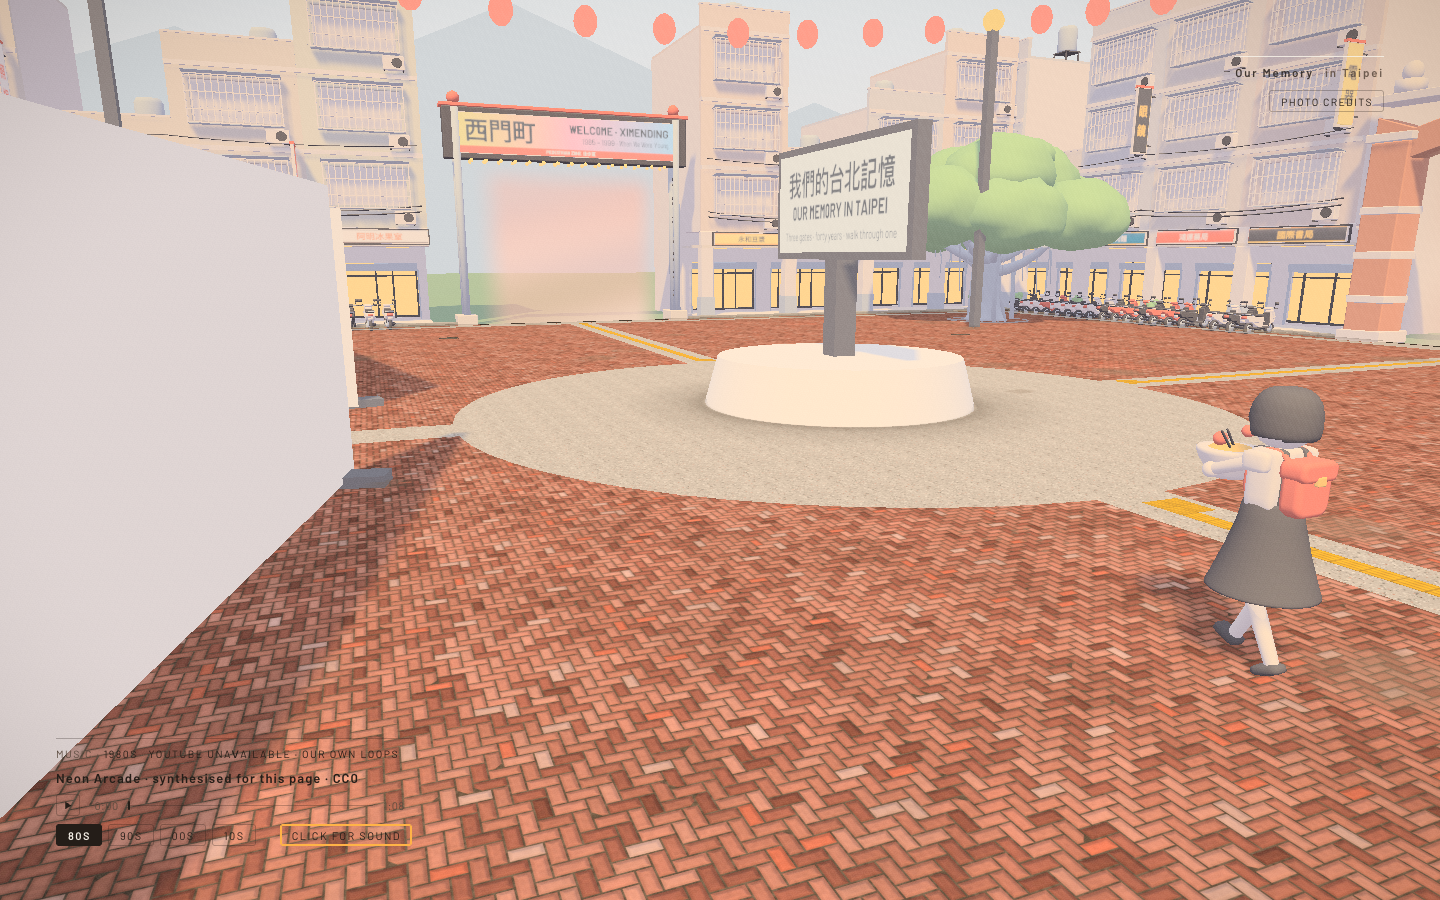
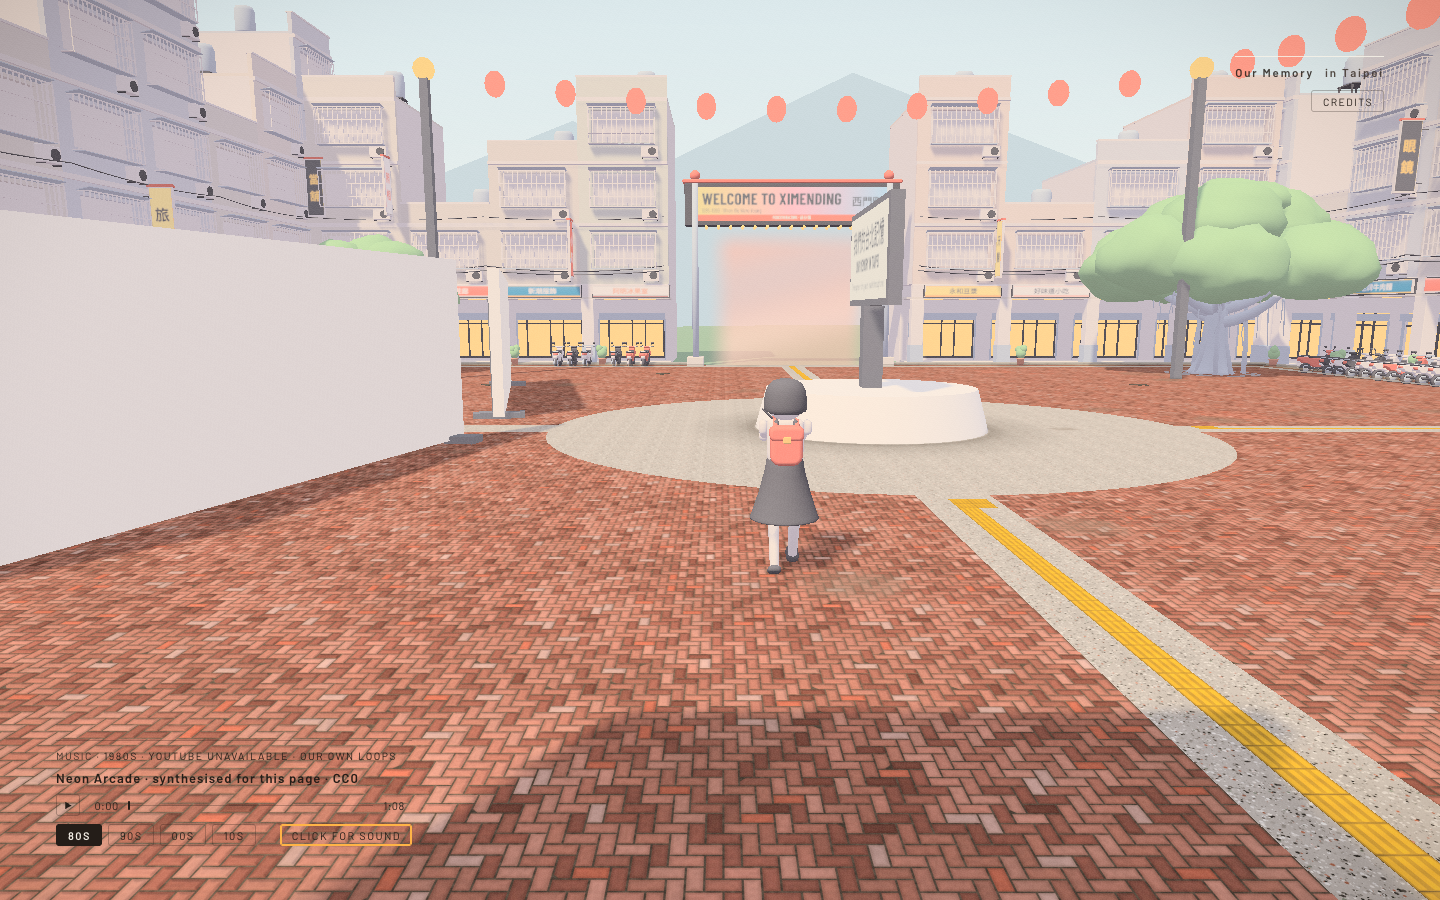
feat(square): English-first gate boards, phone lanterns clear the HUD, square light merged by material

diff --git a/square.js b/square.js
@@ -196,6 +196,22 @@
     return hidden;
   }
 
+  // On a phone held upright the follow camera's lifted FOV puts the lantern strings (LAMP_H 12.5, walk.js) across
+  // the top fifth of the frame, right behind the HUD's "THE SQUARE" block (lead, 2026-11-01; first try hid only
+  // the west and east strings and after-phone.png still showed the north string behind the HUD lines). In
+  // portrait every string steps aside; the four posts and their bulbs stay. Landscape keeps them all.
+  function portraitLanterns(ctx) {
+    const { square } = ctx, verm = S.C('verm').getHex(), strings = [];
+    square.children.forEach(o => {
+      if (o.isMesh && o.material && o.material.isMeshBasicMaterial && o.material.color.getHex() === verm && o.geometry.type === 'SphereGeometry') strings.push(o);
+    });
+    const mq = window.matchMedia ? window.matchMedia('(orientation: portrait)') : null;
+    const apply = () => { const p = mq ? mq.matches : innerHeight > innerWidth; strings.forEach(o => { o.visible = !p; }); };
+    apply();
+    if (mq && mq.addEventListener) mq.addEventListener('change', apply); else window.addEventListener('resize', apply);
+    SQUARE.stats.lanterns = strings.length;
+  }
+
   // ── build ────────────────────────────────────────────────────────────────────────────────────
   function build(ctx) {
     const { square, SQ, GATES, gateArch } = ctx;
@@ -209,11 +225,12 @@
       catch (e) { console.error('square-paving failed; keeping the old floor', e); }
     }
     // light
-    if (window.SQUARE_LIGHT && window.RIG) {
+    if (window.SQUARE_LIGHT && window.RIG && new URLSearchParams(location.search).get('sqlight') !== '0') {   // ?sqlight=0 turns it off for A/B
       try { window.SQUARE_LIGHT.build(S, SQ, window.RIG); SQUARE.light = true; }
       catch (e) { console.error('square-light failed', e); }
     }
     SQUARE.hidden = retire(ctx, paved);
+    portraitLanterns(ctx);
 
     let pending = 2;
     const done = () => { if (--pending === 0) { SQUARE.ready = true; SQUARE.stats.buildMs = +(performance.now() - t0).toFixed(1); } };
@@ -257,6 +274,7 @@
       const sMat = new THREE.MeshLambertMaterial({ map: tex, emissive: 0xffffff, emissiveMap: tex, emissiveIntensity: 0.18, side: THREE.DoubleSide });
       const bm = new THREE.Mesh(quads(boards.concat(vquads)), S.withFog(sMat));
       bm.receiveShadow = true; bm.userData.sq = true; root.add(bm);
+      bm.raycast = () => {};                      // the boards lie on the bays, which already stop the rays
       SQUARE.stats.bays = bays.length; SQUARE.stats.storeys = storeys.length; SQUARE.stats.vsigns = vs.length;
       done();
     });
@@ -298,10 +316,11 @@
     M.load('sq-scooter', gltf => {
       M.lambertize(gltf.scene);
       const rows = [
-        { a0: SQ.gate + 3.2, a1: SQ.h - 3, at: a => [SQ.x + a, SQ.z - SQ.h + 1.15], r: Math.PI },
-        { a0: -(SQ.h - 3), a1: -(SQ.gate + 3.2), at: a => [SQ.x + a, SQ.z - SQ.h + 1.15], r: Math.PI },
-        { a0: SQ.gate + 3.2, a1: SQ.h - 4, at: a => [SQ.x - SQ.h + 1.15, SQ.z + a], r: -Math.PI / 2 },
-        { a0: SQ.gate + 3.2, a1: SQ.h - 4, at: a => [SQ.x + SQ.h - 1.15, SQ.z + a], r: Math.PI / 2 },
+        { a0: SQ.gate + 3.2, a1: SQ.h - 6, at: a => [SQ.x + a, SQ.z - SQ.h + 1.15], r: Math.PI },
+        { a0: -(SQ.h - 6), a1: -(SQ.gate + 3.2), at: a => [SQ.x + a, SQ.z - SQ.h + 1.15], r: Math.PI },
+        // short rows on the west and east walls (each scooter is 1.4k triangles a copy: the frame budget)
+        { a0: SQ.gate + 3.2, a1: SQ.gate + 9, at: a => [SQ.x - SQ.h + 1.15, SQ.z + a], r: -Math.PI / 2 },
+        { a0: SQ.gate + 3.2, a1: SQ.gate + 9, at: a => [SQ.x + SQ.h - 1.15, SQ.z + a], r: Math.PI / 2 },
       ];
       const sets = { scooterA: [], scooterB: [], scooterC: [] };
       rows.forEach(rw => { for (let a = rw.a0; a <= rw.a1; a += 0.78) {
@@ -357,6 +376,7 @@
       const geo = new THREE.BufferGeometry();
       geo.setAttribute('position', new THREE.BufferAttribute(pos, 3)); geo.setAttribute('normal', new THREE.BufferAttribute(nor, 3)); geo.setIndex(new THREE.BufferAttribute(idx, 1));
       const m = new THREE.Mesh(geo, mat); m.castShadow = true; m.userData.sq = true; root.add(m);
+      m.raycast = () => {};                       // a wire hides nothing and stops nobody (walk.js rays every solid)
       SQUARE.stats.cableTris = nIdx / 3;
     })();
 
@@ -365,7 +385,7 @@
       let last = performance.now();
       const tick = now => {
         const dt = Math.min(0.1, (now - last) / 1000); last = now;
-        const on = !!(window.WALK && window.WALK.on && window.WALK.where === 'square');
+        const on = !!(window.WALK && window.WALK.on && window.WALK.where === 'square' && square.visible);
         try { window.SQUARE_LIGHT.update(dt, on); } catch (e) { console.error(e); SQUARE.light = false; return; }
         requestAnimationFrame(tick);
       };
@@ -373,32 +393,34 @@
     }
   }
 
-  // the gate's name board, per style
+  // the gate's name board, per style. English is the headline and the Chinese name the smaller secondary line
+  // (CJ's rule, as in walk.js gateSign: "English copy, Chinese small").
   function gateBoard(ctx, G, style) {
     const P = ctx.P || S.PALETTE, ZH = ctx.FONT_ZH, EN = ctx.FONT_EN;
     return (g, W, H) => {
-      if (style === 'ximen') {                    // the pedestrian-zone light box: bright, colourful, WELCOME
+      if (style === 'ximen') {                    // the pedestrian-zone light box: bright, colourful
         const gr = g.createLinearGradient(0, 0, W, 0);
         gr.addColorStop(0, '#ffd76a'); gr.addColorStop(0.5, '#ff8fa3'); gr.addColorStop(1, '#8ecbff');
         g.fillStyle = gr; g.fillRect(0, 0, W, H);
         g.fillStyle = P.verm; g.fillRect(0, H * 0.82, W, H * 0.18);
         g.fillStyle = P.ink; g.textBaseline = 'middle';
-        g.textAlign = 'left'; g.font = `700 ${Math.round(H * 0.62)}px ${ZH}`; g.fillText(G.zh, W * 0.04, H * 0.42);
-        g.textAlign = 'right'; g.font = `700 ${Math.round(H * 0.3)}px ${EN}`; g.fillText('WELCOME · ' + G.en, W * 0.96, H * 0.3);
-        g.font = `400 ${Math.round(H * 0.2)}px ${EN}`; g.fillText(G.years + ' · ' + G.line, W * 0.96, H * 0.6);
-        g.fillStyle = P.bone; g.font = `700 ${Math.round(H * 0.12)}px ${EN}`; g.textAlign = 'center'; g.fillText('PEDESTRIAN ZONE  徒步區', W / 2, H * 0.91);
+        g.textAlign = 'left'; g.font = `700 ${Math.round(H * 0.5)}px ${EN}`; g.fillText('WELCOME TO ' + G.en, W * 0.04, H * 0.36);
+        g.font = `400 ${Math.round(H * 0.17)}px ${EN}`; g.fillText(G.years + ' · ' + G.line, W * 0.04, H * 0.7);
+        g.textAlign = 'right'; g.font = `700 ${Math.round(H * 0.32)}px ${ZH}`; g.fillText(G.zh, W * 0.96, H * 0.42);
+        g.fillStyle = P.bone; g.font = `700 ${Math.round(H * 0.12)}px ${EN}`; g.textAlign = 'center'; g.fillText('PEDESTRIAN ZONE · 徒步區', W / 2, H * 0.91);
       } else if (style === 'dadao') {             // a carved stone name panel
         g.fillStyle = P.bone; g.fillRect(0, 0, W, H);
         g.strokeStyle = P.brick; g.lineWidth = H * 0.06; g.strokeRect(H * 0.06, H * 0.06, W - H * 0.12, H - H * 0.12);
         g.fillStyle = P.brick; g.textBaseline = 'middle'; g.textAlign = 'center';
-        g.font = `700 ${Math.round(H * 0.5)}px ${ZH}`; g.fillText(G.zh, W / 2, H * 0.42);
-        g.font = `700 ${Math.round(H * 0.17)}px ${EN}`; g.fillText(G.en + ' · ' + G.years, W / 2, H * 0.78);
+        g.font = `700 ${Math.round(H * 0.4)}px ${EN}`; g.fillText(G.en, W / 2, H * 0.38);
+        g.font = `700 ${Math.round(H * 0.2)}px ${ZH}`; g.fillText(G.zh + ' · ' + G.years, W / 2, H * 0.74);
       } else {                                    // 信義: a dark band with light lettering
         g.fillStyle = P.ink; g.fillRect(0, 0, W, H);
         g.fillStyle = P.glass; g.fillRect(0, H * 0.9, W, H * 0.1);
         g.fillStyle = P.bone; g.textBaseline = 'middle';
-        g.textAlign = 'left'; g.font = `700 ${Math.round(H * 0.6)}px ${ZH}`; g.fillText(G.zh, W * 0.04, H * 0.47);
-        g.textAlign = 'right'; g.font = `700 ${Math.round(H * 0.34)}px ${EN}`; g.fillText(G.en + '  ' + G.years, W * 0.96, H * 0.47);
+        g.textAlign = 'left'; g.font = `700 ${Math.round(H * 0.56)}px ${EN}`; g.fillText(G.en, W * 0.04, H * 0.47);
+        g.textAlign = 'right'; g.font = `400 ${Math.round(H * 0.3)}px ${EN}`; g.fillText(G.years + ' · ' + G.line, W * 0.7, H * 0.47);
+        g.font = `700 ${Math.round(H * 0.4)}px ${ZH}`; g.fillText(G.zh, W * 0.96, H * 0.47);
       }
     };
   }

diff --git a/square-light.js b/square-light.js
@@ -79,6 +79,29 @@
     return m;
   }
 
+  // one draw call per material instead of one per quad (38 quads → 5 meshes): bake each quad's transform
+  // into its vertices and concatenate. No BufferGeometryUtils (no build step), so by hand.
+  function mergeByMaterial() {
+    const byMat = new Map();
+    group.children.slice().forEach(m => { if (!byMat.has(m.material)) byMat.set(m.material, []); byMat.get(m.material).push(m); });
+    byMat.forEach((list, mat) => {
+      const pos = [], uv = [], idx = []; let base = 0, order = list[0].renderOrder;
+      list.forEach(m => {
+        m.updateMatrix();
+        const g = m.geometry.clone().applyMatrix4(m.matrix), P = g.attributes.position, U = g.attributes.uv, I = g.index;
+        for (let i = 0; i < P.count; i++) { pos.push(P.getX(i), P.getY(i), P.getZ(i)); uv.push(U.getX(i), U.getY(i)); }
+        for (let i = 0; i < I.count; i++) idx.push(I.getX(i) + base);
+        base += P.count; group.remove(m); m.geometry.dispose(); g.dispose();
+      });
+      const geo = new T.BufferGeometry();
+      geo.setAttribute('position', new T.Float32BufferAttribute(pos, 3));
+      geo.setAttribute('uv', new T.Float32BufferAttribute(uv, 2));
+      geo.setIndex(idx); geo.computeBoundingSphere();
+      const mesh = new T.Mesh(geo, mat); mesh.renderOrder = order; group.add(mesh);
+    });
+    stats.drawCalls = group.children.length;
+  }
+
   function build(S, SQ, R) {
     if (group) return group;
     const scene = S.scene, C = S.C;
@@ -126,6 +149,8 @@
     [[-16, -16], [16, -16], [-16, 16], [16, 16]].forEach(([dx, dz]) => {
       quad(postMat, SQ.x + dx, SQ.z + dz, 1.6, 1.6, 0, 1, Y_AO + 0.003, 1); stats.aoDecals++;
     });
+
+    mergeByMaterial();
 
     // the engine's sun: the one shadow-casting DirectionalLight in the scene (app.js `key`)
     scene.traverse(o => { if (!sun && o.isDirectionalLight && o.castShadow) sun = o; });
